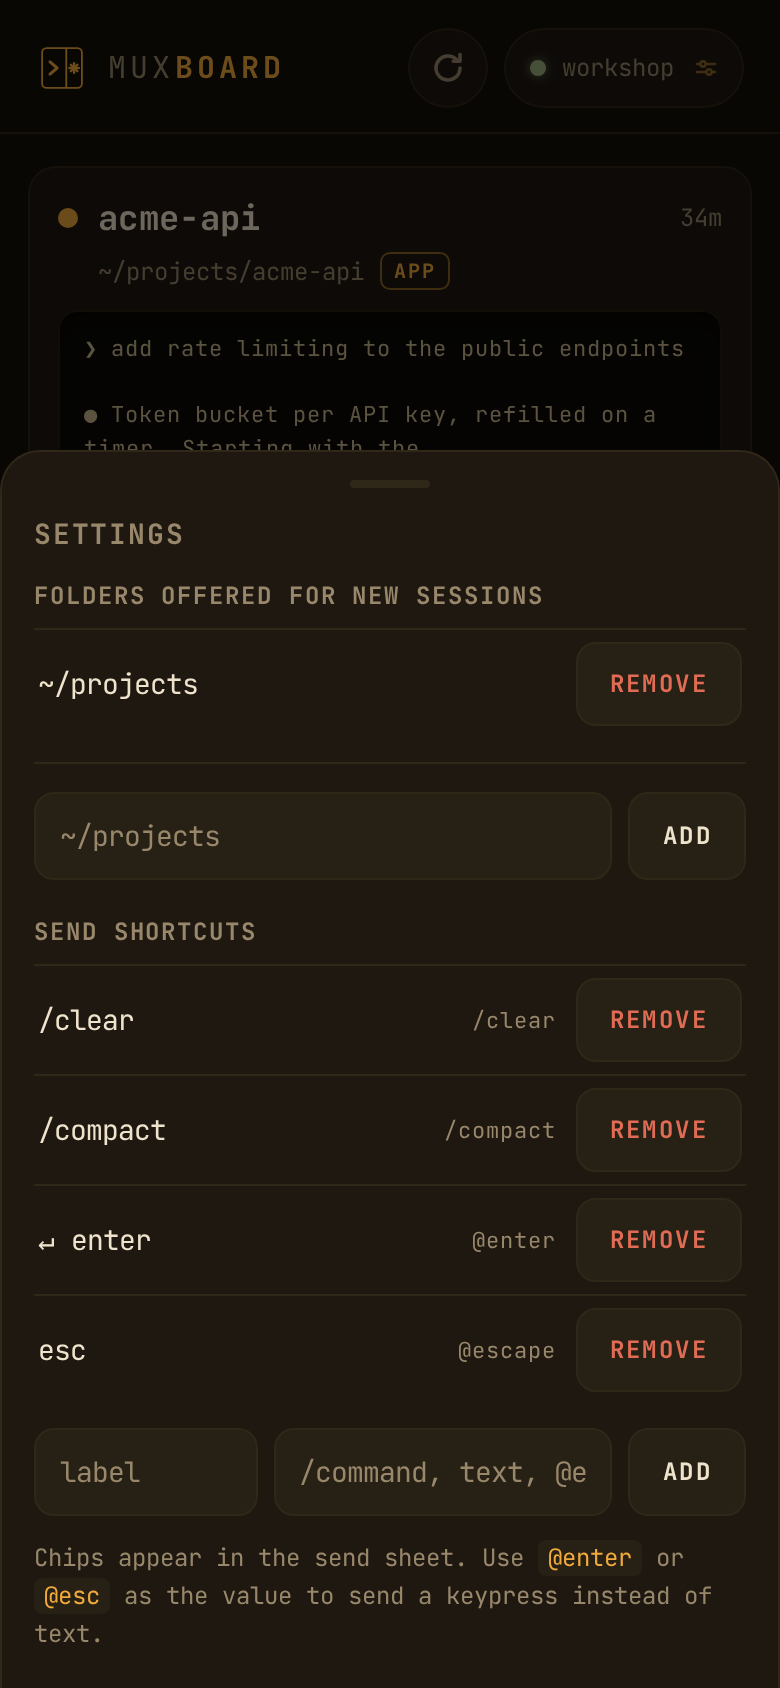
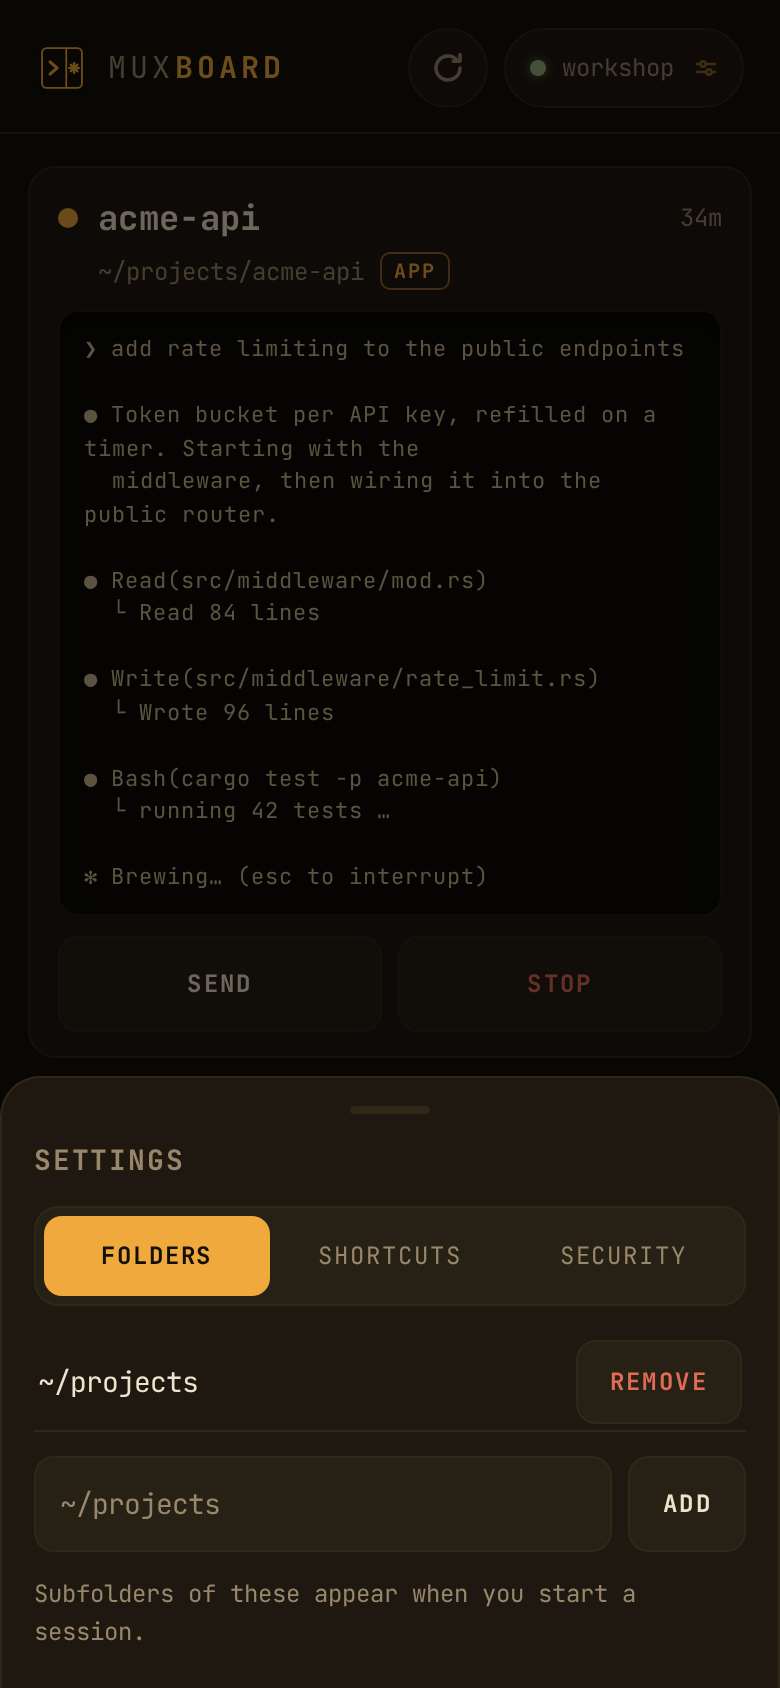
refactor: settings as three panels, single password field
Settings had grown by accretion into one tall scrolling column mixing
two unrelated concerns — setting the board up versus securing it. A
bottom sheet that scrolls is a sheet that is doing too much.

- A segmented switch splits it into folders / shortcuts / security. No
  extra navigation depth: the sheet still opens in one tap and each
  section is one more. Measured at 375x667 and 390x844 with a typical
  config, every panel now fits without scrolling; tightened row heights
  and hint copy to buy the last few pixels on the smaller screen.
- Password is a single field with a show/hide toggle instead of asking
  people to type it twice — a reveal makes the confirmation field
  redundant. The CLI keeps its double prompt, having nothing to reveal
  with.
- Log out and remove sit with the password they belong to, and the
  add-a-folder placeholder no longer echoes an existing entry.

sw.js VERSION muxboard-v4

diff --git a/public/index.html b/public/index.html
@@ -87,38 +87,51 @@
     <div class="sheet-grip" aria-hidden="true"></div>
     <h2 class="sheet-title">Settings</h2>
 
-    <h3 class="set-head">Folders offered for new sessions</h3>
-    <div id="rootList" class="setlist"></div>
-    <form class="custompath" id="rootForm">
-      <input id="rootInput" placeholder="~/projects" autocomplete="off" spellcheck="false" enterkeyhint="done">
-      <button type="submit" class="btn small">add</button>
-    </form>
+    <div class="segments" id="segments" role="tablist" aria-label="Settings sections">
+      <button class="seg on" data-tab="folders" role="tab" aria-selected="true">folders</button>
+      <button class="seg" data-tab="shortcuts" role="tab" aria-selected="false">shortcuts</button>
+      <button class="seg" data-tab="security" role="tab" aria-selected="false">security</button>
+    </div>
 
-    <h3 class="set-head">Send shortcuts</h3>
-    <div id="shortcutList" class="setlist"></div>
-    <form class="scform" id="shortcutForm">
-      <input id="scLabel" placeholder="label" autocomplete="off" spellcheck="false" maxlength="24">
-      <input id="scSend" placeholder="/command, text, @enter or @esc" autocomplete="off" spellcheck="false" enterkeyhint="done">
-      <button type="submit" class="btn small">add</button>
-    </form>
-    <p class="set-hint">Chips appear in the send sheet. Use <code>@enter</code> or
-      <code>@esc</code> as the value to send a keypress instead of text.</p>
+    <div class="panel" data-panel="folders" role="tabpanel">
+      <div id="rootList" class="setlist"></div>
+      <form class="addrow" id="rootForm">
+        <input id="rootInput" placeholder="~/another/folder" autocomplete="off" spellcheck="false" enterkeyhint="done">
+        <button type="submit" class="btn small">add</button>
+      </form>
+      <p class="set-hint">Subfolders of these appear when you start a session.</p>
+    </div>
 
-    <h3 class="set-head">Password</h3>
-    <p class="set-hint" id="pwState"></p>
-    <form class="pwform" id="pwForm">
-      <input id="pwCurrent" type="password" placeholder="current password"
-             autocomplete="current-password" aria-label="Current password" hidden>
-      <input id="pwNew" type="password" placeholder="new password"
-             autocomplete="new-password" aria-label="New password">
-      <input id="pwRepeat" type="password" placeholder="repeat new password"
-             autocomplete="new-password" aria-label="Repeat new password">
-      <div class="pwactions">
-        <button type="submit" class="btn small" id="pwSubmit">set password</button>
-        <button type="button" class="btn small danger" id="pwRemove" hidden>remove</button>
-        <button type="button" class="btn small" id="logoutBtn" hidden>log out</button>
-      </div>
-    </form>
+    <div class="panel" data-panel="shortcuts" role="tabpanel" hidden>
+      <div id="shortcutList" class="setlist"></div>
+      <form class="addrow wrap" id="shortcutForm">
+        <input id="scLabel" placeholder="label" autocomplete="off" spellcheck="false" maxlength="24">
+        <input id="scSend" placeholder="/command, text, @enter or @esc" autocomplete="off" spellcheck="false" enterkeyhint="done">
+        <button type="submit" class="btn small">add</button>
+      </form>
+      <p class="set-hint">Use <code>@enter</code> or <code>@esc</code> for a keypress.</p>
+    </div>
+
+    <div class="panel" data-panel="security" role="tabpanel" hidden>
+      <p class="set-hint" id="pwState"></p>
+      <form class="pwform" id="pwForm">
+        <div class="pwfield" id="pwCurrentField" hidden>
+          <input id="pwCurrent" type="password" placeholder="current password"
+                 autocomplete="current-password" aria-label="Current password">
+          <button type="button" class="reveal" data-reveal="pwCurrent">show</button>
+        </div>
+        <div class="pwfield">
+          <input id="pwNew" type="password" placeholder="new password"
+                 autocomplete="new-password" aria-label="New password">
+          <button type="button" class="reveal" data-reveal="pwNew">show</button>
+        </div>
+        <button type="submit" class="btn" id="pwSubmit">set password</button>
+        <div class="pwactions">
+          <button type="button" class="btn small danger" id="pwRemove" hidden>remove password</button>
+          <button type="button" class="btn small" id="logoutBtn" hidden>log out</button>
+        </div>
+      </form>
+    </div>
   </section>
 
   <div id="login" class="offline" hidden>

diff --git a/public/style.css b/public/style.css
@@ -288,16 +288,28 @@ button { font: inherit; color: inherit; background: none; border: none; cursor: 
 
 /* ------------------------------------------------------- settings & lists */
 
-.set-head {
-  font-size: 12px; letter-spacing: .08em; text-transform: uppercase;
-  color: var(--muted); margin: 18px 0 8px;
+/* One sheet, three short panels — a segmented switch instead of a long scroll. */
+.segments {
+  display: flex; gap: 4px;
+  background: var(--panel-up); border: 1px solid var(--line);
+  border-radius: 12px; padding: 4px; margin-bottom: 14px;
 }
-.set-head:first-of-type { margin-top: 4px; }
+.seg {
+  flex: 1; min-height: 40px; border-radius: 9px;
+  font-size: 12px; letter-spacing: .08em; text-transform: uppercase;
+  color: var(--muted);
+  transition: background .12s ease, color .12s ease;
+}
+.seg.on { background: var(--amber); color: var(--on-amber); font-weight: 700; }
+.seg:not(.on):active { color: var(--cream); }
+
+.panel { display: flex; flex-direction: column; }
+
 .setlist { display: flex; flex-direction: column; }
 .setrow {
   display: flex; align-items: center; gap: 10px;
-  min-height: 52px; padding: 6px 2px;
-  border-top: 1px solid var(--line);
+  min-height: 44px; padding: 3px 2px;
+  border-bottom: 1px solid var(--line);
   font-size: 14px;
 }
 .setrow-main { flex: 1; min-width: 0; overflow: hidden; text-overflow: ellipsis; white-space: nowrap; }
@@ -311,31 +323,41 @@ button { font: inherit; color: inherit; background: none; border: none; cursor: 
   background: var(--panel-up); border-radius: 4px; padding: 1px 5px;
 }
 
-.scform { display: flex; gap: 8px; flex-wrap: wrap; margin-top: 12px; }
-.scform input {
-  min-height: 44px; min-width: 0;
+.addrow { display: flex; gap: 8px; margin-top: 12px; }
+.addrow.wrap { flex-wrap: wrap; }
+.addrow input {
+  flex: 1; min-width: 0; min-height: 48px;
   font: 14px var(--mono); color: var(--cream);
   background: var(--panel-up); border: 1px solid var(--line); border-radius: 10px;
   padding: 0 12px;
 }
-.scform #scLabel { flex: 1 1 30%; }
-.scform #scSend { flex: 2 1 45%; }
-.scform input::placeholder { color: var(--muted); }
-.scform input:focus { outline: 2px solid var(--amber); border-color: transparent; }
+.addrow input::placeholder { color: var(--muted); }
+.addrow input:focus { outline: 2px solid var(--amber); border-color: transparent; }
+.addrow #scLabel { flex: 1 1 34%; }
+.addrow #scSend { flex: 2 1 48%; }
 
-.pwform { display: flex; flex-direction: column; gap: 8px; margin-top: 12px; }
-.pwform input {
-  min-height: 44px;
+.pwform { display: flex; flex-direction: column; gap: 10px; }
+.pwfield { position: relative; display: flex; }
+.pwfield input {
+  flex: 1; min-width: 0; min-height: 48px;
   font: 14px var(--mono); color: var(--cream);
   background: var(--panel-up); border: 1px solid var(--line); border-radius: 10px;
-  padding: 0 12px;
+  padding: 0 62px 0 12px;
 }
-.pwform input::placeholder { color: var(--muted); }
-.pwform input:focus { outline: 2px solid var(--amber); border-color: transparent; }
+.pwfield input::placeholder { color: var(--muted); }
+.pwfield input:focus { outline: 2px solid var(--amber); border-color: transparent; }
+.reveal {
+  position: absolute; right: 4px; top: 4px; bottom: 4px;
+  padding: 0 12px; border-radius: 8px;
+  font-size: 11px; letter-spacing: .08em; text-transform: uppercase;
+  color: var(--amber-soft);
+}
+.reveal:active { color: var(--amber); background: var(--line); }
 .pwactions { display: flex; gap: 8px; flex-wrap: wrap; }
 .pwactions .btn { flex: 1; min-width: 96px; }
 
 .custompath { display: flex; gap: 8px; margin-top: 12px; border-top: 1px solid var(--line); padding-top: 14px; }
+.set-hint:last-child { margin-bottom: 2px; }
 .custompath input {
   flex: 1; min-width: 0; min-height: 44px;
   font: 14px var(--mono); color: var(--cream);

diff --git a/public/app.js b/public/app.js
@@ -132,20 +132,34 @@ function renderAuth() {
   $('#pwState').textContent = on
     ? 'A password is required to use this Muxboard.'
     : 'No password — anyone who can reach this Muxboard can use it.';
-  $('#pwCurrent').hidden = !on;
+  $('#pwCurrentField').hidden = !on;
   $('#pwRemove').hidden = !on;
   $('#logoutBtn').hidden = !on;
   $('#pwSubmit').textContent = on ? 'change password' : 'set password';
+  $('#pwNew').placeholder = on ? 'new password' : 'password';
+}
+
+// One field with a reveal toggle beats asking people to type it twice.
+for (const btn of document.querySelectorAll('.reveal')) {
+  btn.addEventListener('click', () => {
+    const input = document.getElementById(btn.dataset.reveal);
+    const showing = input.type === 'text';
+    input.type = showing ? 'password' : 'text';
+    btn.textContent = showing ? 'show' : 'hide';
+  });
 }
 
 function clearPasswordFields() {
-  for (const id of ['#pwCurrent', '#pwNew', '#pwRepeat']) $(id).value = '';
+  for (const id of ['#pwCurrent', '#pwNew']) {
+    $(id).value = '';
+    $(id).type = 'password';
+  }
+  for (const btn of document.querySelectorAll('.reveal')) btn.textContent = 'show';
 }
 
 $('#pwForm').addEventListener('submit', async e => {
   e.preventDefault();
   const next = $('#pwNew').value;
-  if (next !== $('#pwRepeat').value) return toast("passwords don't match", true);
   if (next.length < 8) return toast('password must be at least 8 characters', true);
   try {
     await api('/api/password', {
@@ -558,10 +572,27 @@ function renderSettings() {
   }
 }
 
+function showSettingsTab(name) {
+  for (const seg of $('#segments').querySelectorAll('.seg')) {
+    const on = seg.dataset.tab === name;
+    seg.classList.toggle('on', on);
+    seg.setAttribute('aria-selected', String(on));
+  }
+  for (const panel of settingsSheet.querySelectorAll('.panel')) {
+    panel.hidden = panel.dataset.panel !== name;
+  }
+}
+
+$('#segments').addEventListener('click', e => {
+  const seg = e.target.closest('.seg');
+  if (seg) showSettingsTab(seg.dataset.tab);
+});
+
 function openSettings() {
   renderSettings();
   renderAuth();
   clearPasswordFields();
+  showSettingsTab('folders');
   openSheet(settingsSheet);
 }
 

diff --git a/public/sw.js b/public/sw.js
@@ -1,6 +1,6 @@
 // Muxboard service worker: offline-first app shell, network-only API.
 // The shell must load with Tailscale off so the app can say "turn on Tailscale".
-const VERSION = 'muxboard-v3';
+const VERSION = 'muxboard-v4';
 const SHELL = [
   '/', '/style.css', '/app.js', '/manifest.webmanifest',
   '/icons/icon.svg', '/icons/icon-192.png', '/icons/icon-512.png',

diff --git a/README.md b/README.md
@@ -73,7 +73,7 @@ your phone* below.
 ## Configure
 
 <p align="center">
-  <img src="docs/settings.png" alt="Settings sheet listing folder roots and shortcuts" width="290">
+  <img src="docs/settings.png" alt="Settings sheet with folders, shortcuts, and security sections" width="290">
   <img src="docs/dashboard-light.png" alt="The same dashboard in light theme" width="290">
 </p>
 
@@ -121,7 +121,7 @@ Muxboard asks for nothing by default. Set a password from **settings** in the
 app, or from a terminal:
 
 ```sh
-node scripts/password.mjs           # prompts twice, stores the hash
+node scripts/password.mjs           # prompts, stores the hash
 node scripts/password.mjs --remove  # back to no password
 ```
 
